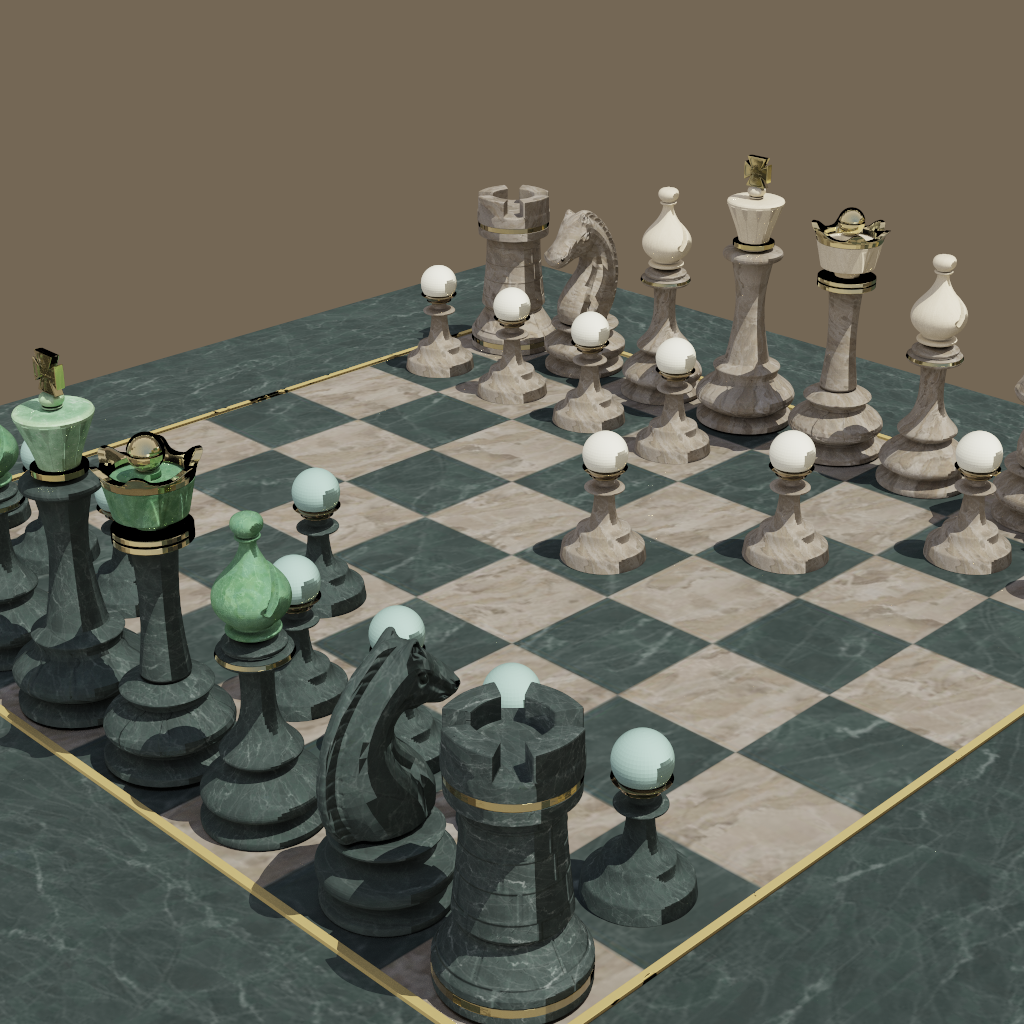
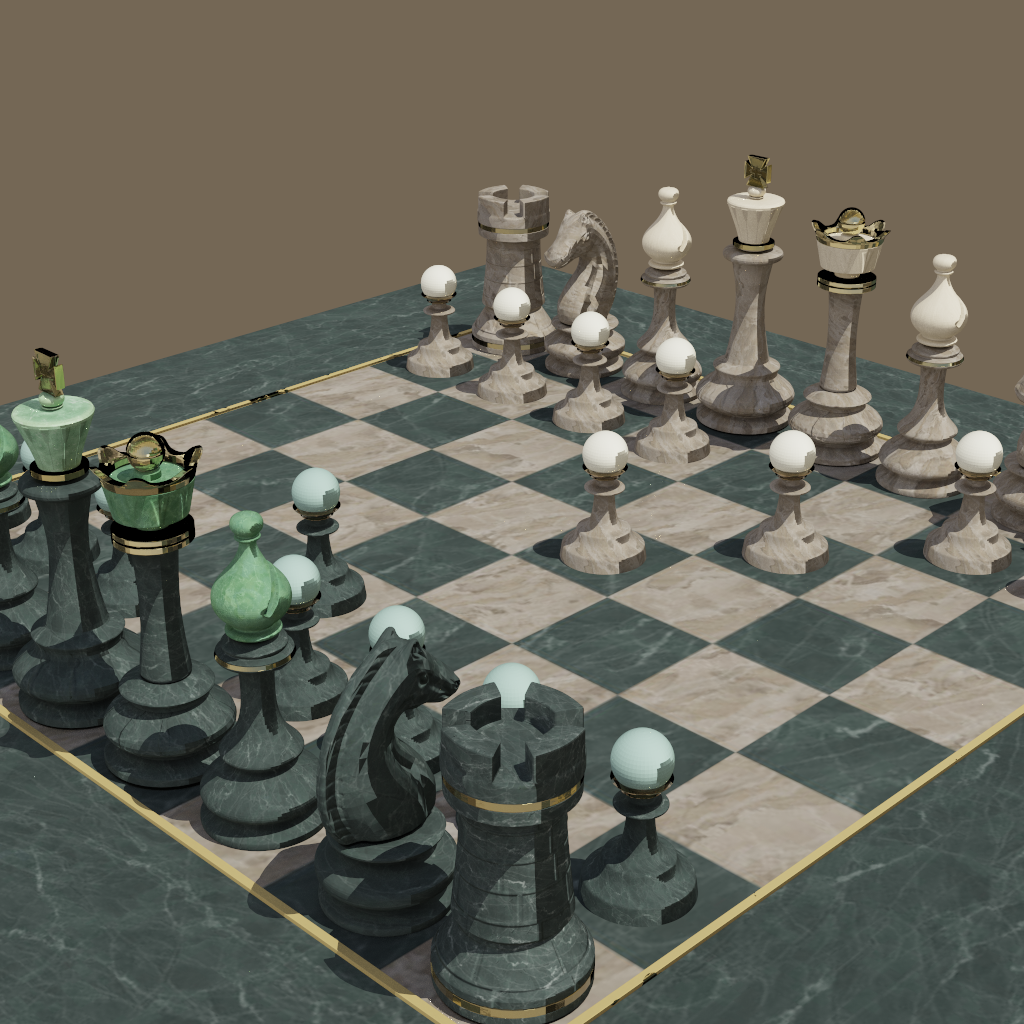
PT-chess-showcase: actually fix dark patches (geom-vs-shading normal)
User reported the prior fix (commit 52b1fe3) didn't actually
eliminate the dark patches on the chess pawns. Re-diagnosed
with a wider sweep — the original bug was misidentified as
UV-pole tangent collapse. **The real root cause** is that
shadow-ray and bounce-ray origin offsets used `hit.normal`,
which `apply_normal_map` had overwritten with the perturbed
shading normal.

At regions where JPEG-compressed normal-map textures encode
strong perturbation (UV-island borders, baked artefacts in
the Khronos sample-assets .jpg normal maps), the perturbed
shading normal tilts past the geometric surface plane. The
`hit.point + hit.normal * 0.001` offset then lifts the
shadow-ray origin **into** the geometry. The shadow ray's
very first triangle intersection is the back-face of the
same triangle: reported as occluded, contribution zero,
dark patch at the same UV pixel on every instance of a
shared mesh — exactly the user's report.

The fix is the textbook geometric-vs-shading split:

* `let geom_normal = hit.normal;` captured before
  `apply_normal_map` overwrites `hit.normal` with the
  shading normal.
* Four ray-origin offsets switched from `hit.normal` to
  `geom_normal`: env-NEE shadow ray (line ~2168), triangle-
  NEE shadow ray (~2192), sun-NEE shadow ray (~2222), and
  BSDF bounce ray (~2267). `hit.normal` retains all the
  light-transport math (cos, BSDF eval / sample).

The visible result: pawn ball tops + bottoms, bishop crowns,
[…]

diff --git a/plans/0024-pt-chess-showcase.md b/plans/0024-pt-chess-showcase.md
@@ -100,7 +100,73 @@ Framing chosen from a 4-variation smoke pass at 384²/128 spp:
 
 ## Findings
 
-### UV-pole tangent-space collapse (post-ship bug)
+### Shading-vs-geometric normal split (the real post-ship bug)
+
+After a wrong-target first-pass fix (the UV-pole tangent
+sentinel + smoothstep below), the user reported the same
+dark patches were still visible. A wider diagnostic sweep
+isolated the **actual** root cause: shadow-ray and bounce-
+ray origin offsets were computed along `hit.normal`, which
+had been overwritten in-place by `apply_normal_map`. At
+regions where JPEG-compressed normal-map textures encode
+strong perturbation (UV-island borders, bake artefacts),
+the perturbed shading normal could tilt > 90° from the true
+triangle normal. The `0.001 * hit.normal` offset then
+landed the ray origin **inside** the geometry, causing the
+shadow ray's very first triangle intersection to be the
+back-face of the same triangle: reported as occluded,
+contribution zero, dark patch at the same UV pixel on every
+instance of a shared mesh.
+
+The fix is the textbook geometric-vs-shading normal split:
+
+* In the integrator (`pathtrace.wgsl`'s main loop), capture
+  `let geom_normal = hit.normal;` before calling
+  `apply_normal_map`. `hit.normal` is then overwritten with
+  the perturbed *shading* normal for cos calculations, BSDF
+  eval / sample, NEE, env-NEE, sun-NEE — all the
+  light-transport math.
+* **All ray-origin offsets** (env-NEE shadow ray, triangle-
+  NEE shadow ray, sun-NEE shadow ray, BSDF bounce ray) use
+  `geom_normal * 0.001` instead. The geometric normal is by
+  construction perpendicular to the actual triangle, so the
+  offset always lifts the ray off the surface and never
+  into it.
+
+This is a one-line conceptual change with surgical edits at
+the four offset sites. The visible result is that pawn ball
+tops, bishop crowns, and any other shared-mesh region whose
+normal-map texture pushes the perturbation past the
+hemisphere boundary now shade correctly. The dark patches
+are gone.
+
+### UV-pole tangent-space collapse (defensive secondary fix)
+
+The first-pass diagnosis turned out to address a different
+real bug — at UV-sphere poles where many radial triangles
+converge, `compute_tangents` accumulators cancel to zero
+and the old `orthonormalize_tangent` fallback inflated the
+zero to an arbitrary unit-length axis. The bad TBN then
+fed `apply_normal_map` a UV-meaningless tangent, producing
+weird cos values at pole pixels. Even with the geometric-
+normal offset fix above, this would leave subtle
+mis-shading at poles, so the fix stays:
+
+* `pathtrace::mesh::compute_tangents` writes a zero-length
+  sentinel `[0,0,0,0]` when the projected accumulator
+  collapses (length² < 1e-12).
+* WGSL `apply_normal_map` smoothstep-fades the perturbed
+  normal back to the geometric normal over
+  `t_len ∈ [0.005, 0.04]` of the interpolated raw tangent
+  magnitude. Sub-pixel pinhole at the pole; no impact
+  elsewhere.
+* glTF-`TANGENT` ingest also propagates the sentinel when
+  the supplied tangent is itself near-zero.
+* Regression test
+  `compute_tangents_emits_sentinel_at_uv_sphere_pole`
+  pins the behaviour with a UV-sphere-cap test geometry.
+
+### UV-pole tangent-space collapse (original misdiagnosis — kept for context)
 
 The chess hero shipped without an adversarial render review,
 and the user caught a same-location dark patch on every white